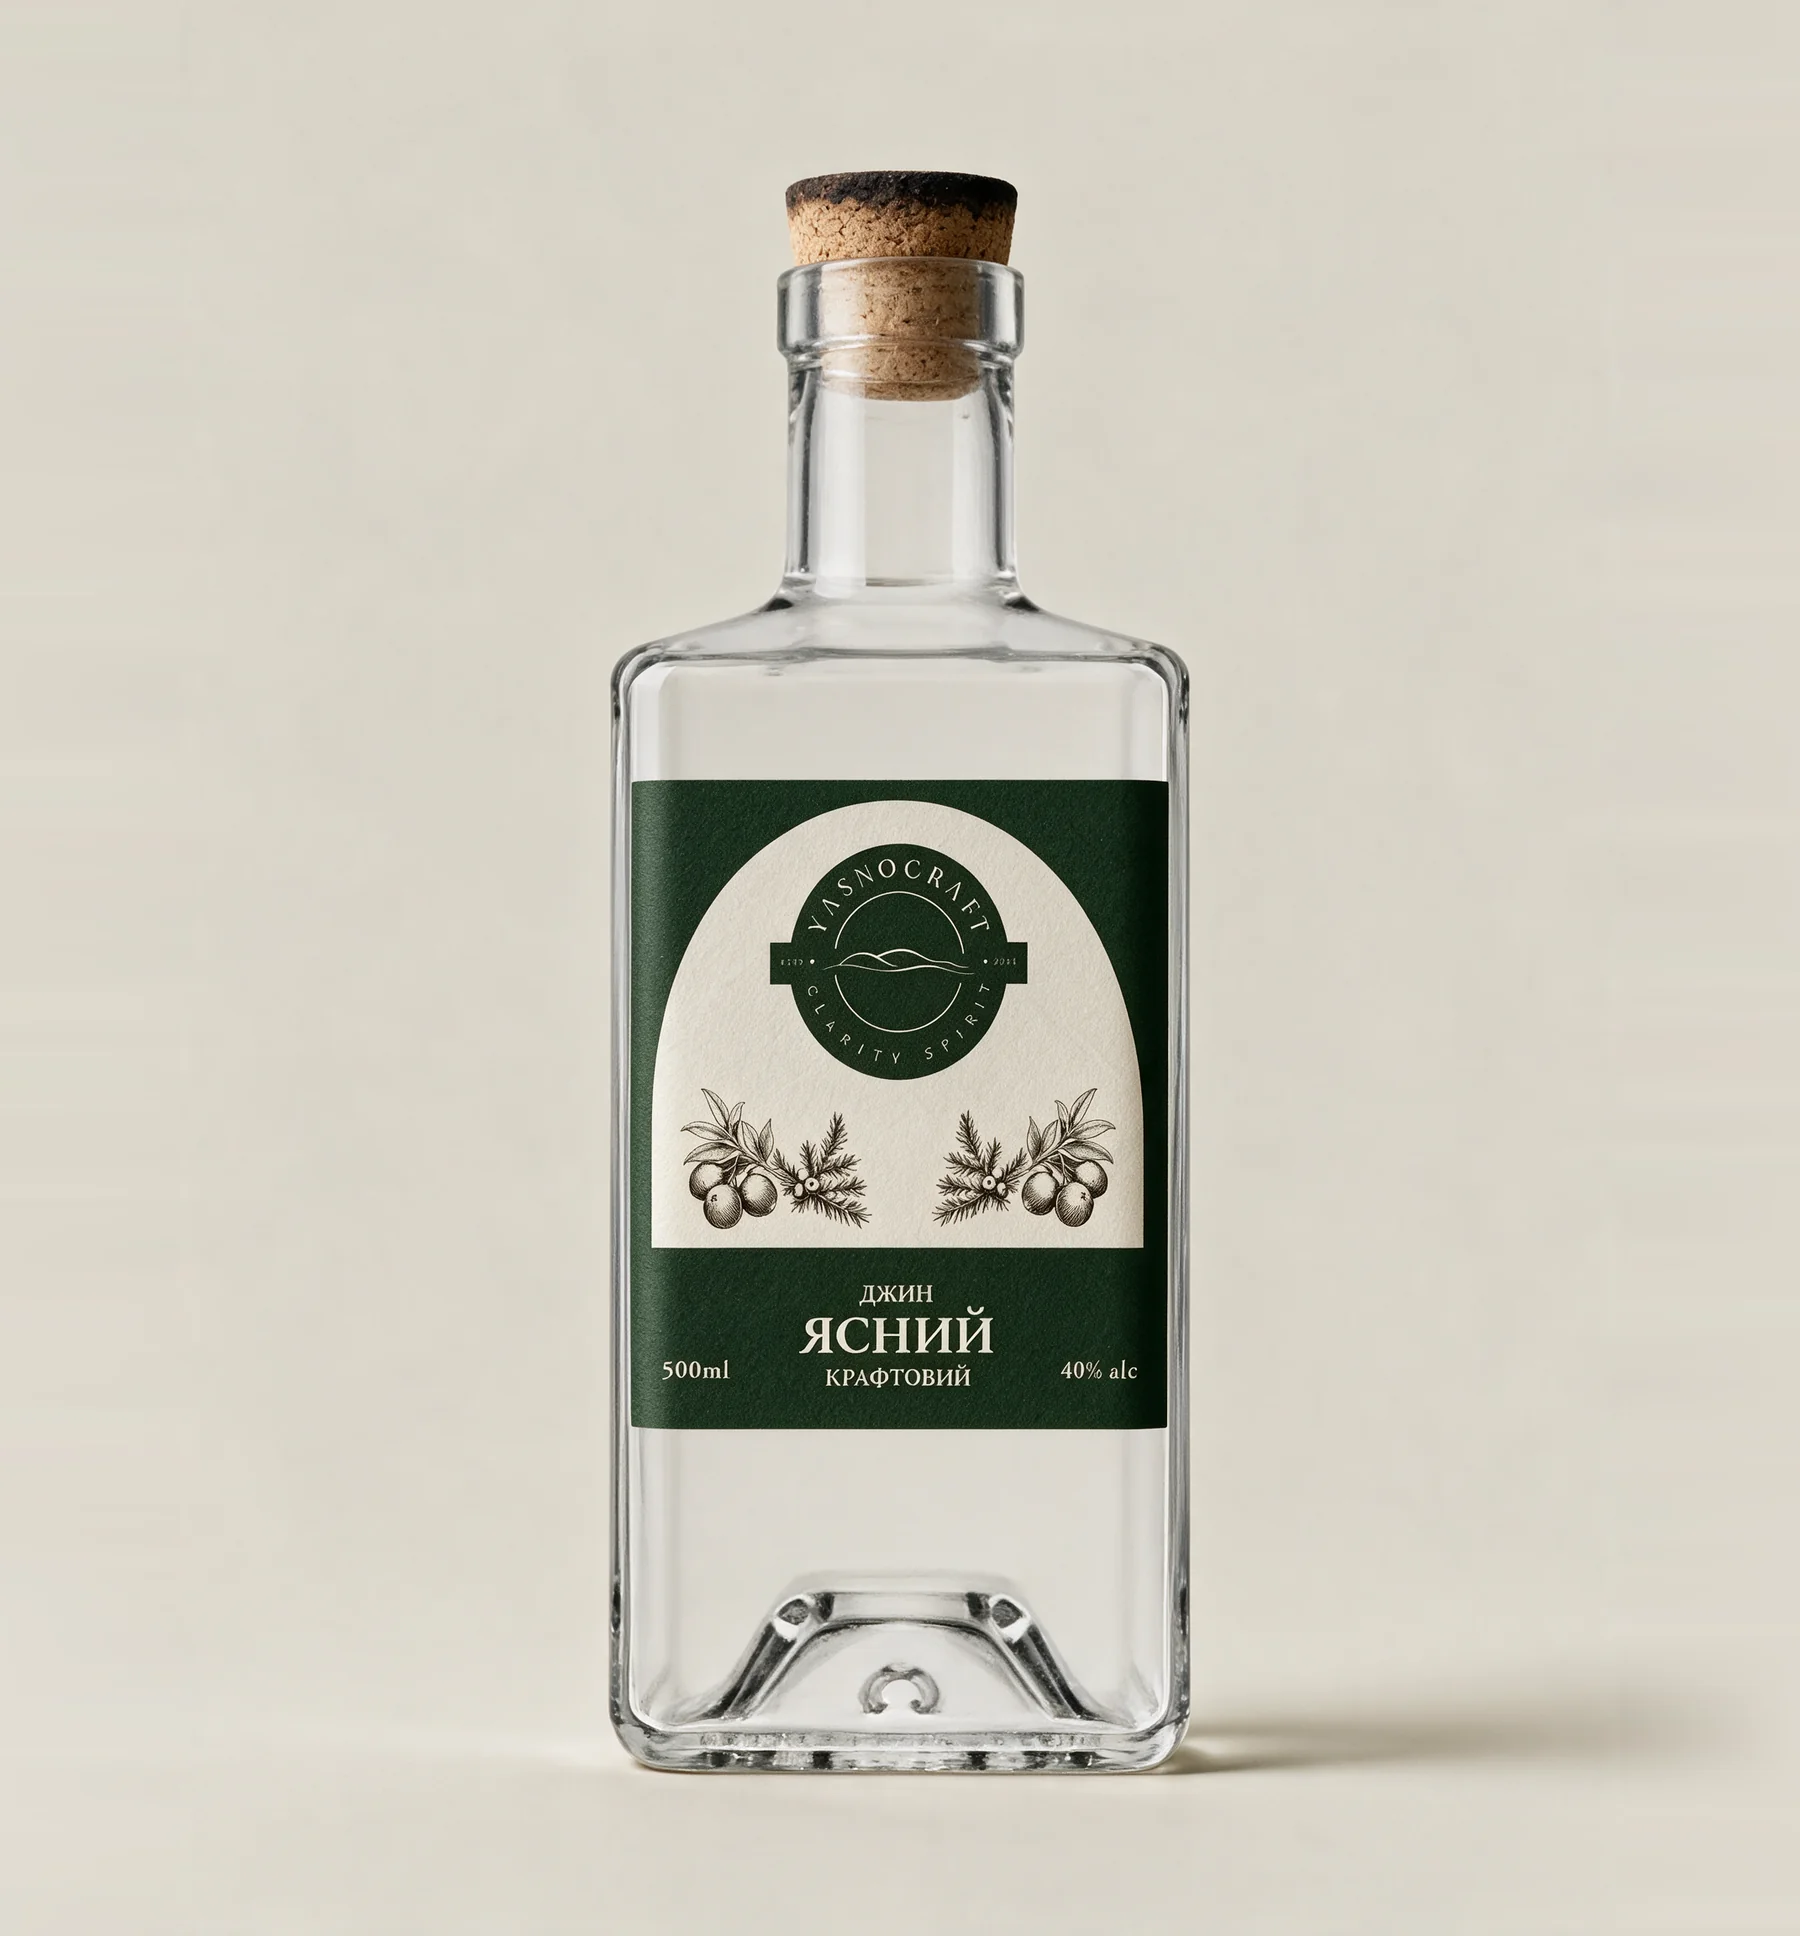
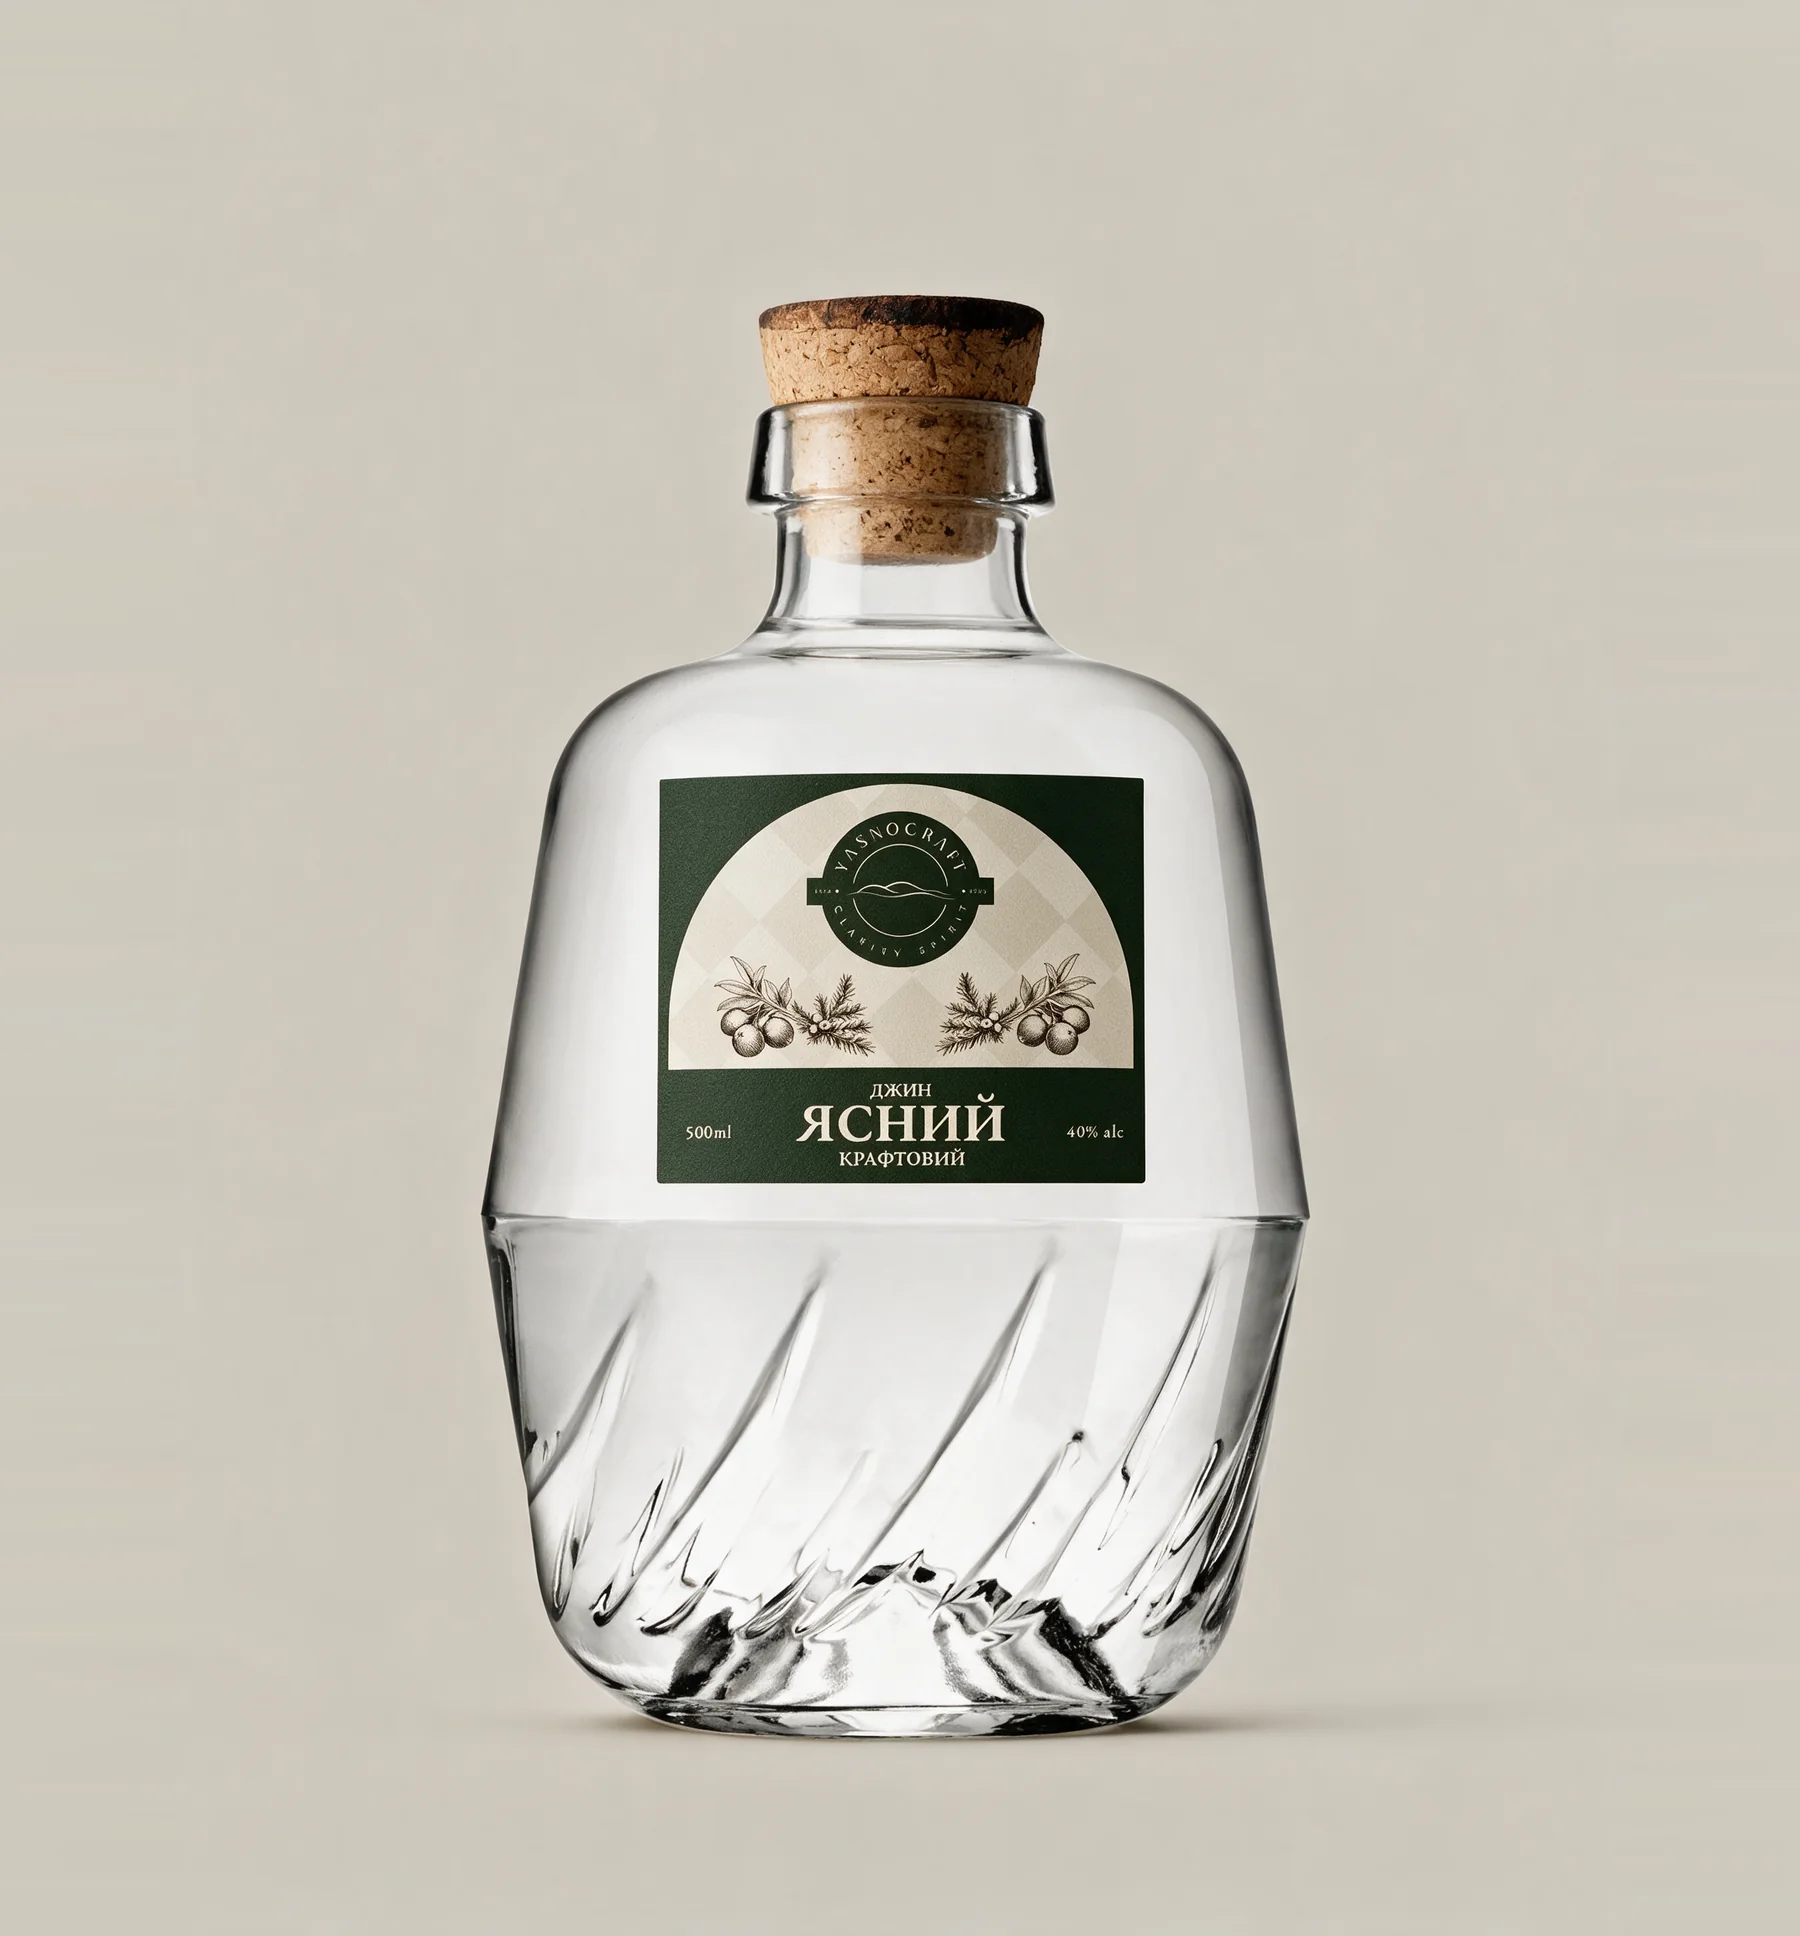
product photos: 14 item photos regenerated on new customer bottles (Seedream 5 Pro, bg removal); MEDIA.md note (e.3)

Changed region(s): [[0.1556, 0.062, 0.8711, 0.9298]]

diff --git a/MEDIA.md b/MEDIA.md
@@ -180,3 +180,6 @@ Barley Spirit і Oak Notes — темне скло й вміст; White Whiskey 
 - Пляшка на кожному кадрі — **РЕАЛЬНА** (прозорий виріз `img/products/<slug>.webp`, етикетка справжня), однакова висота (66 % кадру), позиція ліворуч (≈29 % ширини), спільна тінь і м’яке відображення додані в Pillow. Бокал із коктейлем **згенеровано AI** (модель z-image, Magnific, 5 кредитів/кадр, без тексту/логотипів/людей), однотонний пастельний фон під колір напою; бокал праворуч (≈69 %), лінія столу єдина (80 % висоти).
 - Витрати: 101 кредит (15 кадрів + 3 повтори + пілотне порівняння моделей: Classic Fast 1, Flux.2 Klein 10, z-image 5). Баланс до 23 670, після 23 569. Обрано z-image як найдешевшу модель із фотореалістичним результатом (Classic Fast — 1 кредит, але ігнорує композицію).
 - Примітки: «Джин-смеш з базиліком» — AI видав келих на ніжці замість рокс (ліміт повторів вичерпано); бокали «Джин-тонік» і «Трав’яний тонік» — обидва баллон; бокал у кадрі збільшено/зменшено в Pillow до реальних пропорцій відносно пляшки. Пляшка в кадрі лише для відповідності напою з `cocktails.js` (product).
+
+### (е.3) Оновлення 20.10.2026: нові пляшки (generative/newbottles2)
+Усі 14 фото ітемів перегенеровані на нових пляшках замовника (`bottles-png/`: Barley Wind/Wave/Ft-Barley, Distiller, Elixir) з тими самими етикетками; Seedream 5 Pro 3:4. Hero й вирізи перезаписано за тими самими іменами (`product-hero-<slug>-new.webp`, `products/<slug>.webp`) — `products.js` не змінювався. Виріз — Magnific `images_remove_background` (14 × 3 кредити). Попередні файли — у scratchpad `bk-oct20/`. Джерела: `../generative/newbottles2/`.
